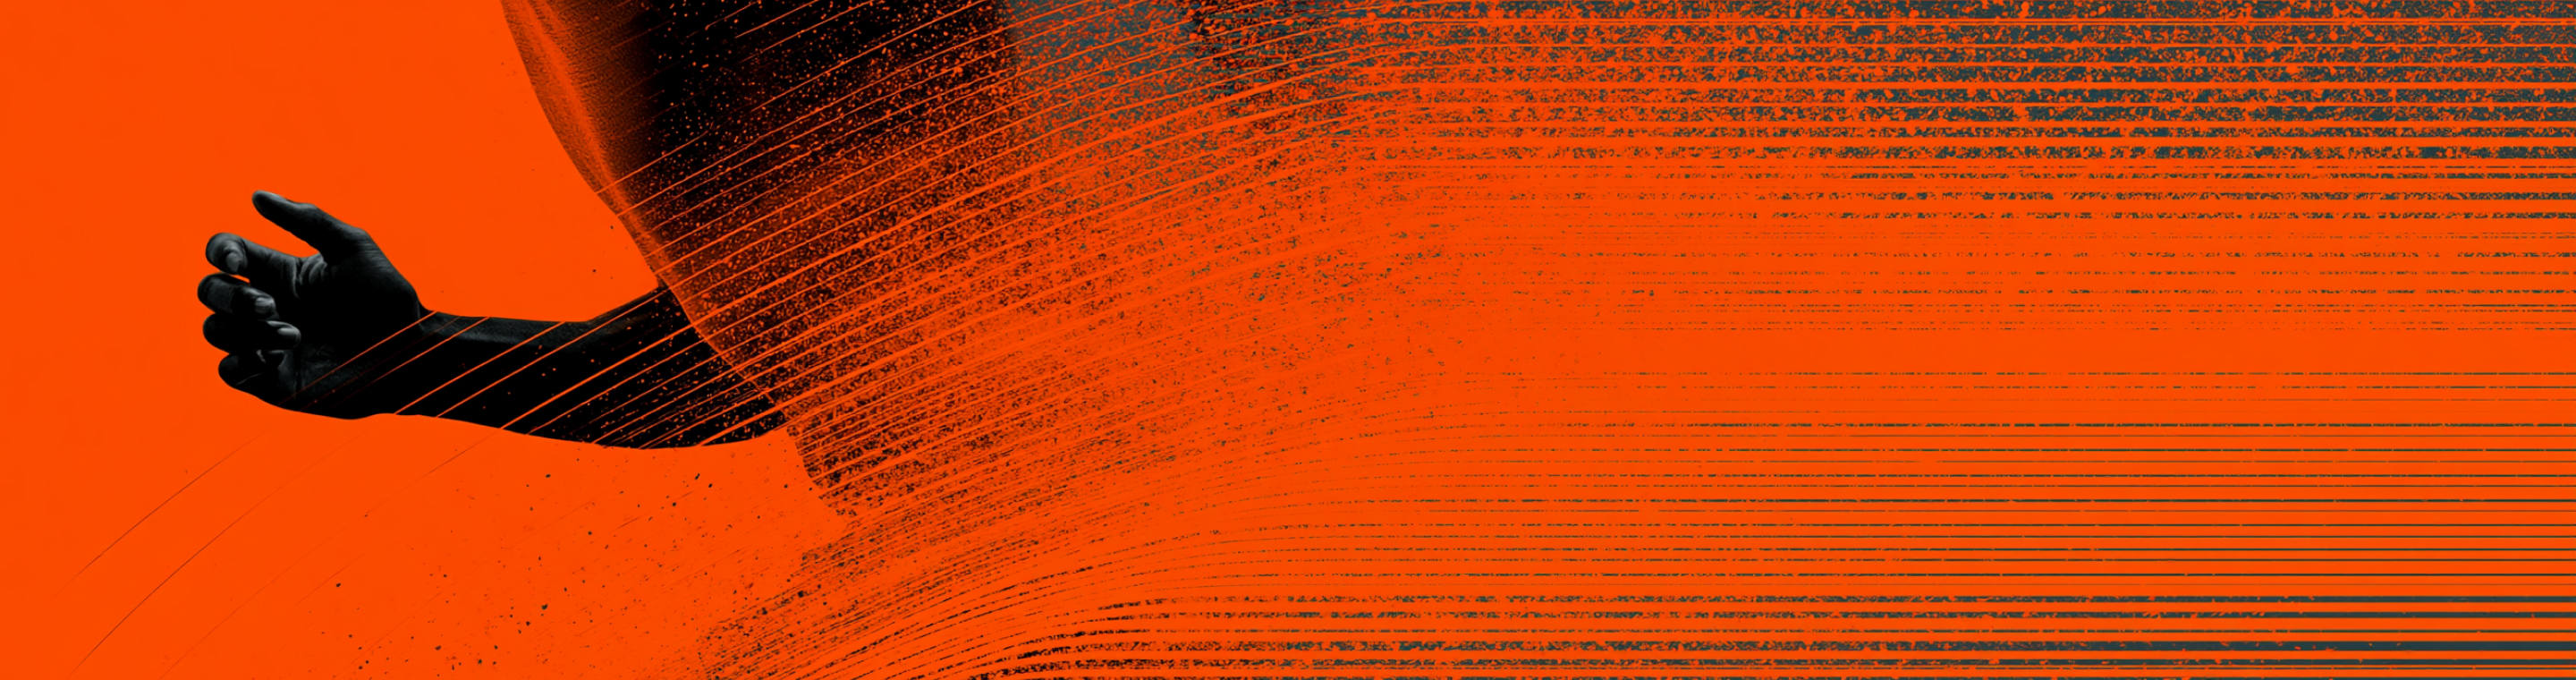
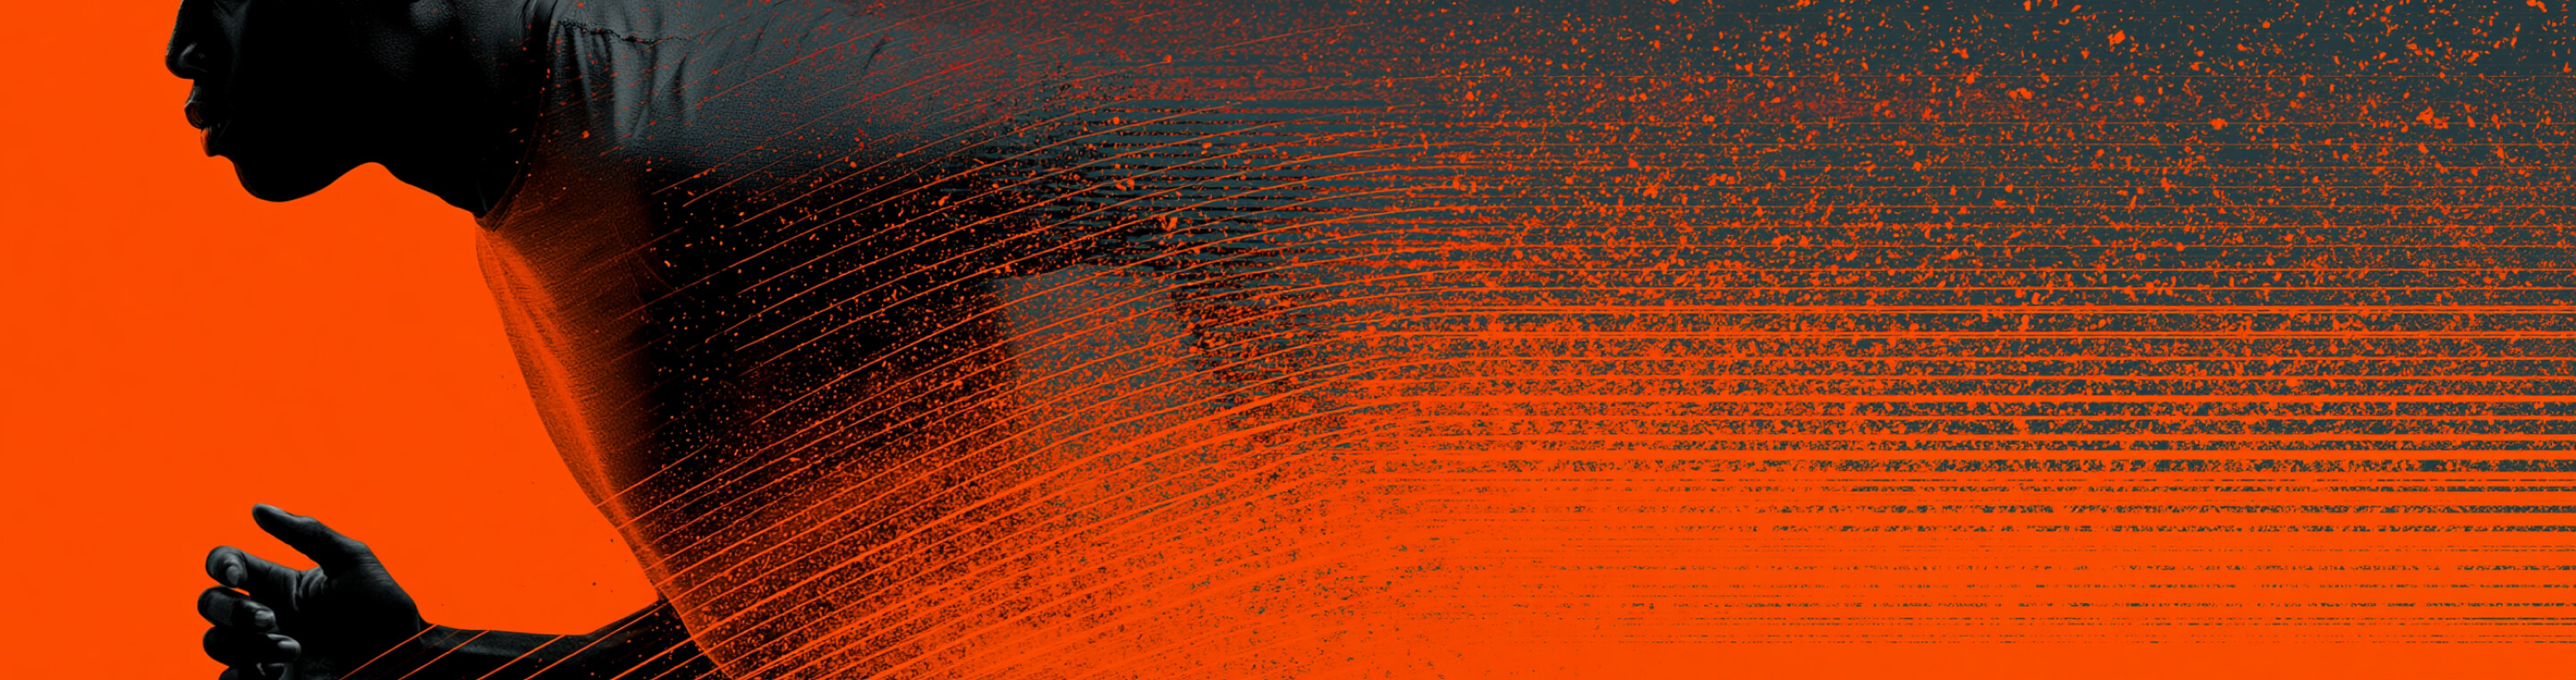
image and css tweaks

diff --git a/index.html b/index.html
@@ -210,7 +210,7 @@
 
     <!-- Footer -->
     <footer class="footer">
-      <p class="footer__text font-korean">May the pace<br>be with you.</p>
+      <p class="footer__text font-korean">May the pace be with you.</p>
     </footer>
 
   </div><!-- /.page -->

diff --git a/src/styles/landing.css b/src/styles/landing.css
@@ -285,4 +285,5 @@
 .info-btn-wrap {
   display: flex;
   justify-content: center;
+  margin: var(--space-80) 0;
 }